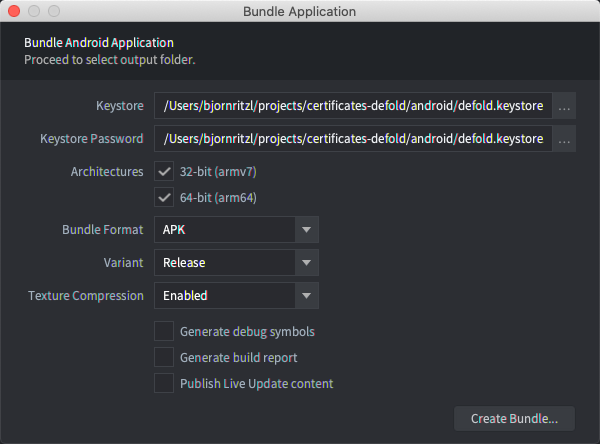
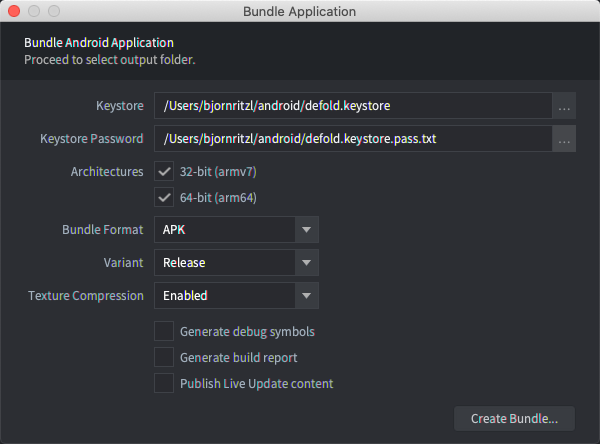
Added note on keystore and password format

Changed region(s): [[0.42, 0.205, 0.9, 0.2635], [0.42, 0.2928, 0.9, 0.3221]]

diff --git a/docs/en/manuals/android.md b/docs/en/manuals/android.md
@@ -46,7 +46,7 @@ If you want the editor to automatically create random debug certificates, leave 
 
 ![Signing Android bundle](images/android/sign_bundle.png)
 
-If you want to sign your bundle with a particular keystore, specify the *Keystore* and *Keystore password* files:
+If you want to sign your bundle with a particular keystore, specify the *Keystore* and *Keystore password*. The *Kyestore* is expected to have the `.keystore` file extension while the password is expected to be stored in a text file with the `.txt` extension:
 
 ![Signing Android bundle](images/android/sign_bundle2.png)
 
